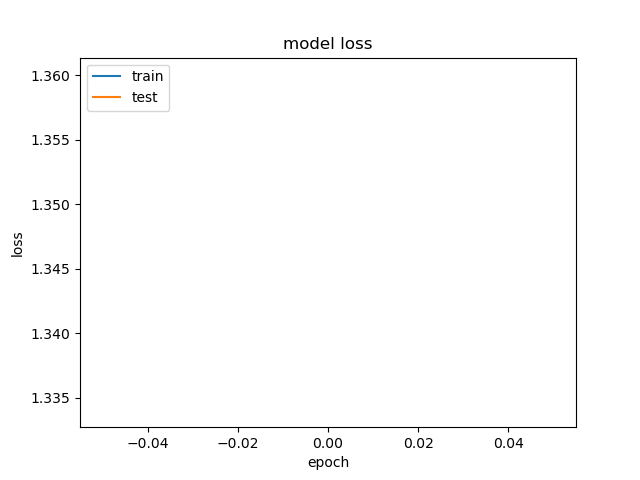
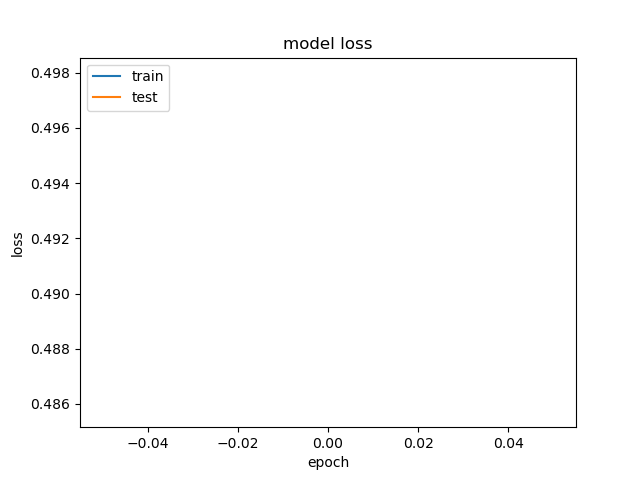
working v

diff --git a/main.py b/main.py
@@ -9,7 +9,7 @@ import matplotlib.pyplot as plt
 
 
 from tensorflow import keras
-from keras.applications import ResNet101
+from keras.applications import ResNet50V2
 from keras.models import  Model
 from keras.layers import Dense, GlobalAveragePooling2D
 from keras.optimizers.legacy import Adam
@@ -25,11 +25,10 @@ from lite_util import convert_to_tf_lite
 num_of_classes = 4
 image_size = 224
 batch_size = 32
-epochs = 5
+epochs = 1
 train_directory = os.environ.get("TRAIN_DIRECTORY", "/YOU_MUST_SPECIFY_PATH")
 
-# Load the ResNet50 base model, pre-trained on ImageNet
-base_model = ResNet101(weights='imagenet', include_top=False)
+base_model = ResNet50V2(weights='imagenet', include_top=False)
 
 # Freeze the layers of the base_model
 for layer in base_model.layers:
@@ -79,11 +78,14 @@ history = model.fit(
     validation_steps=validation_generator.samples // batch_size
 )
 
-model_path = f'saved_model/model_{datetime.now()}.h5'
+model_relative_path = f'saved_model/model.h5'
+model_path = os.path.dirname(os.path.realpath(__file__)) + '/'+ model_relative_path
+
 model.save(model_path)
-convert_to_tf_lite(model_path)
+# model = tf.keras.models.load_model('saved_model/model.h5')
+convert_to_tf_lite(model)
 
 visualize_model_fit(history)
-model = tf.keras.models.load_model('saved_model/main.h5')
+model = tf.keras.models.load_model(model_path)
 
 debug_model_prediction(validation_generator, model)

diff --git a/visualization_utils.py b/visualization_utils.py
@@ -1,5 +1,8 @@
 import matplotlib.pyplot as plt
 import numpy as np
+import os 
+
+dirname = os.path.dirname(os.path.realpath(__file__))
 
 ##### Debug augmented images
 
@@ -13,7 +16,7 @@ def debug_augmented_images(train_generator):
       plt.imshow(x_batch[i].astype('uint8'))
       plt.axis('off')
   plt.tight_layout()
-  plt.savefig('figures/augmented_images_debug.png')
+  plt.savefig(f'{dirname}/figures/augmented_images_debug.png')
 
 
 
@@ -43,7 +46,7 @@ def debug_model_prediction(validation_generator, model):
       plt.axis("off")
   
   plt.tight_layout()
-  plt.savefig('figures/model_prediction_debug.png')
+  plt.savefig(f'{dirname}/figures/model_prediction_debug.png')
 
 def visualize_model_fit(history): 
   # summarize history for accuracy
@@ -62,4 +65,4 @@ def visualize_model_fit(history):
   plt.xlabel('epoch')
   plt.legend(['train', 'test'], loc='upper left')
 
-  plt.savefig('figures/model_fit.png')
+  plt.savefig(f'{dirname}/figures/model_fit.png')

diff --git a/lite_util.py b/lite_util.py
@@ -1,10 +1,11 @@
 import tensorflow as tf
+import os
 
-def convert_to_tf_lite(path):
+def convert_to_tf_lite(model):
 
-  converter = tf.lite.TFLiteConverter.from_saved_model(path)
+  converter = tf.lite.TFLiteConverter.from_keras_model(model)
   tflite_model = converter.convert()
-
+  model_path = os.path.dirname(os.path.realpath(__file__)) + '/saved_lite_model/' + 'lite_model';
   # Save the TFLITE model
-  with open(f'{path}.tflite', 'wb') as f:
+  with open(f'{model_path}.tflite', 'wb') as f:
       f.write(tflite_model)
